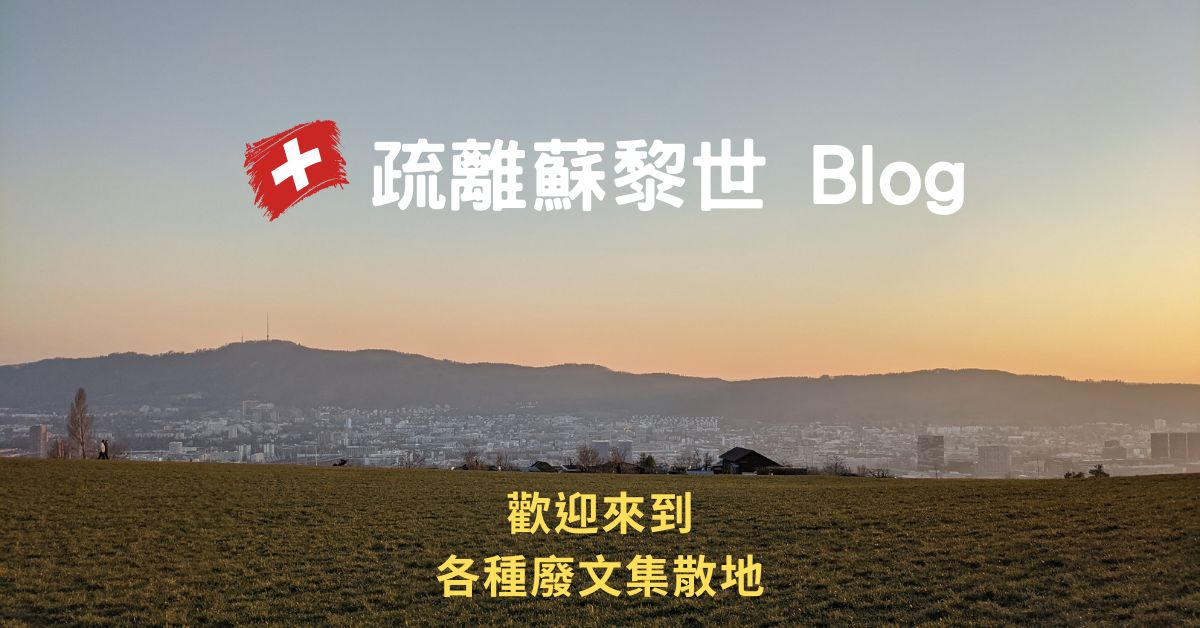
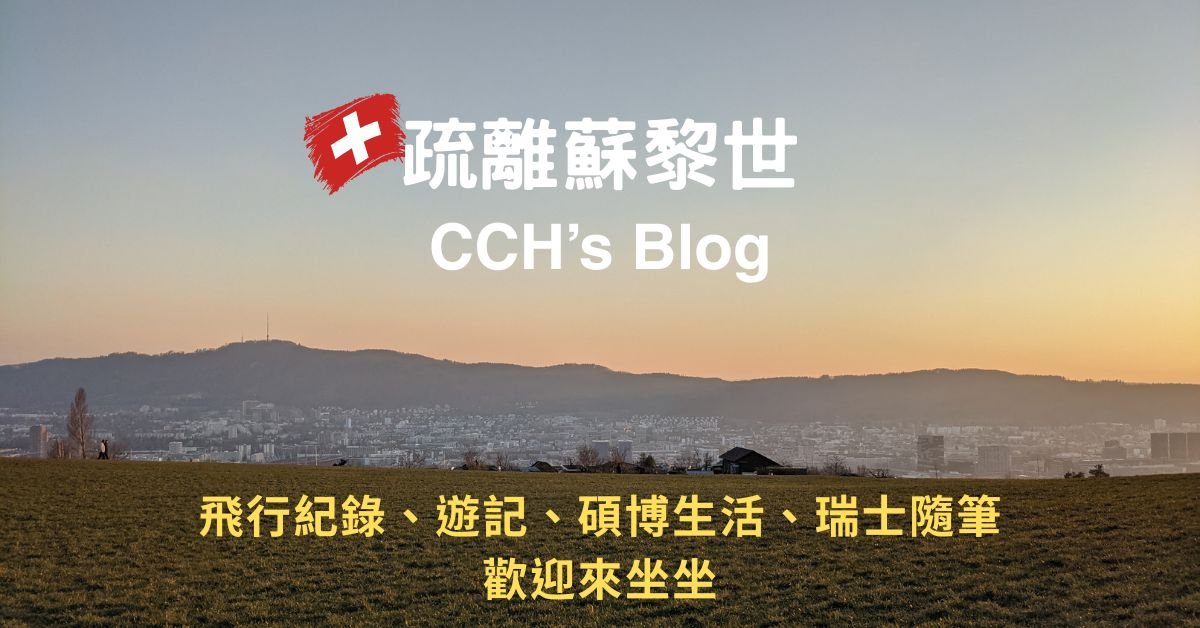
update og figure, fix title css break, update blog title

Changed region(s): [[0.185, 0.1513, 0.8017, 0.4538], [0.1542, 0.7866, 0.8325, 0.9682]]

diff --git a/assets/css/style.scss b/assets/css/style.scss
@@ -409,11 +409,20 @@ td {
 }
 
 .post-title-main {
-    font-size: 2.5rem;
+    font-size: 2.2rem; 
     font-weight: 800;
     color: var(--text-main);
-    line-height: 1.2;
-    margin-bottom: 10px;
+    line-height: 1.3; 
+    margin-bottom: 15px;
+    word-break: keep-all;
+    overflow-wrap: break-word;
+}
+
+@media (max-width: 600px) {
+    .post-title-main {
+        font-size: 1.75rem;
+        line-height: 1.25;
+    }
 }
 
 /* Content Styling (The actual blog text) */

diff --git a/_layouts/default.html b/_layouts/default.html
@@ -88,7 +88,7 @@
 <body>
     <nav class="navbar">
         <div class="nav-container">
-            <a href="/" class="logo">疏離蘇黎世</a>
+            <a href="/" class="logo">疏離蘇黎世 CCH's Blog</a>
 
             <button class="menu-toggle" aria-label="Open Menu">
                 <span class="bar"></span>